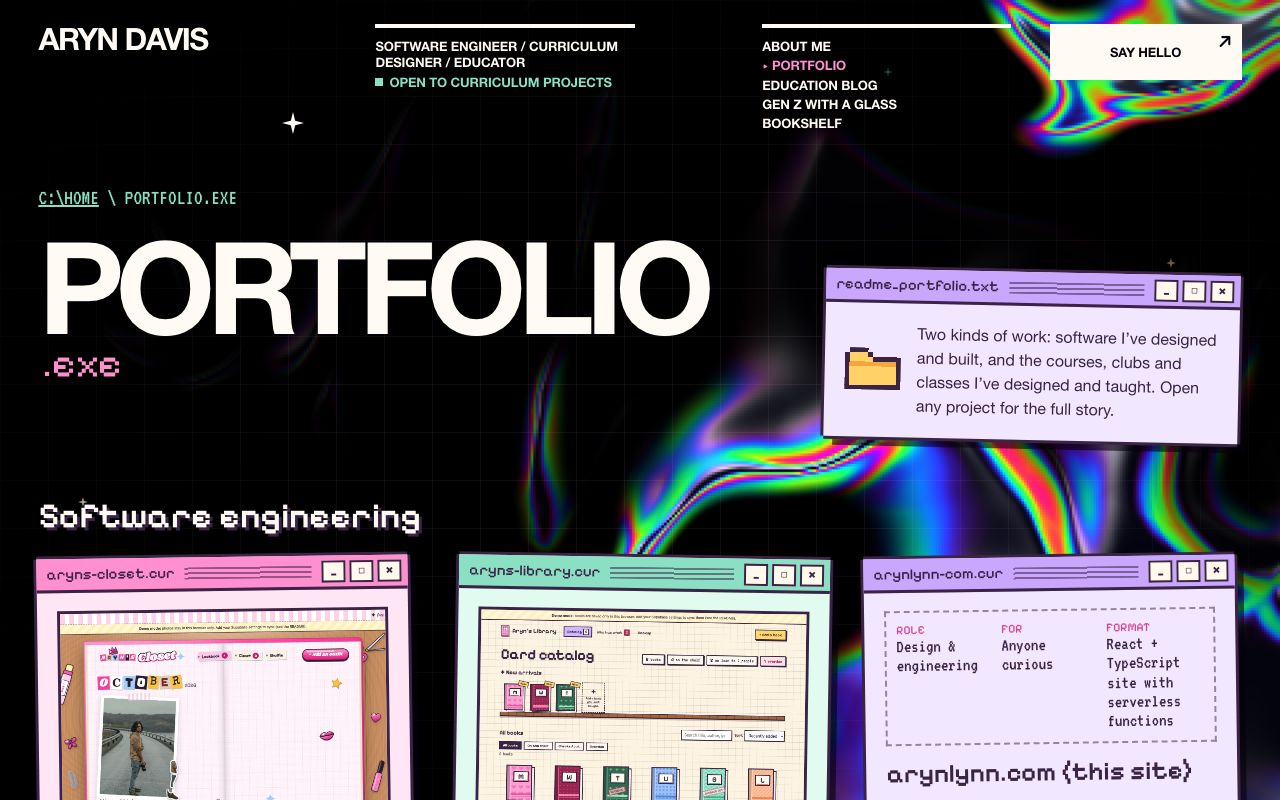
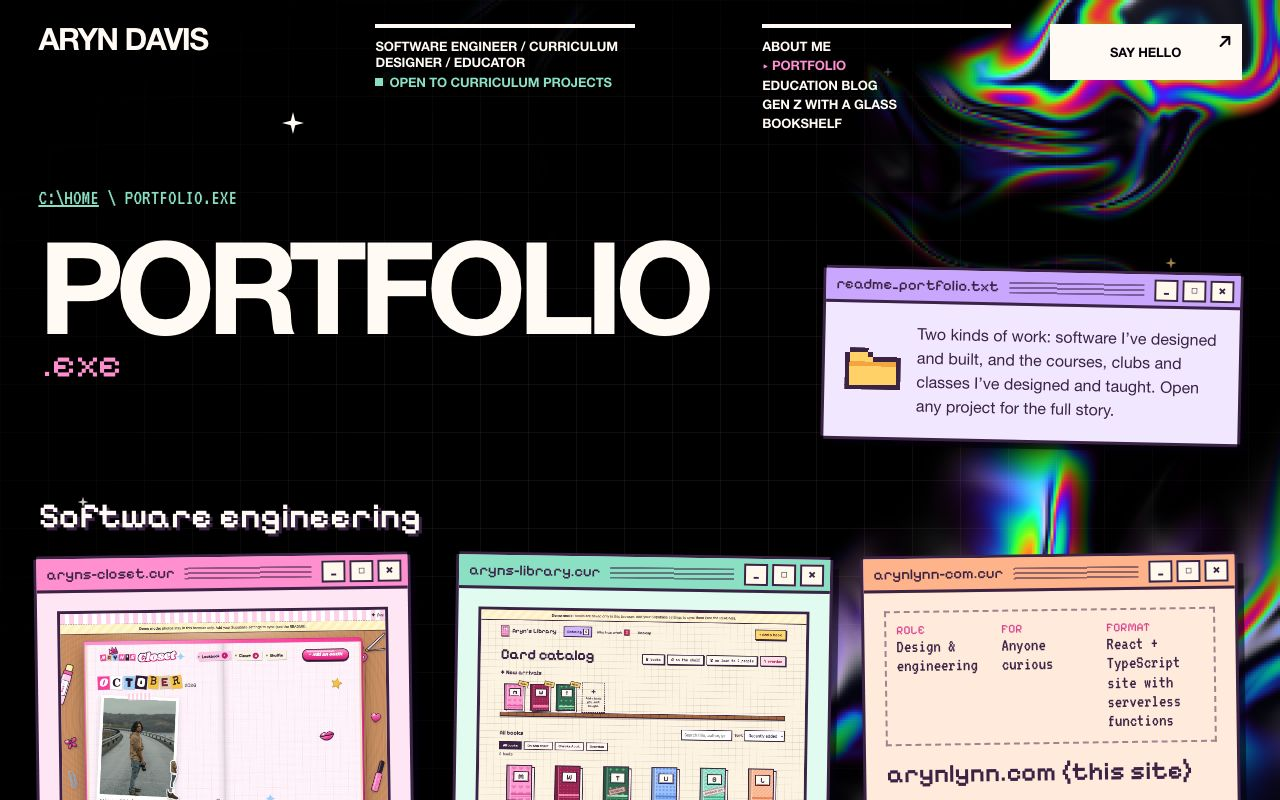
Use peach and lime across the site's notes and cards
- The note/card color rotation (education notes, portfolio cards) now
  uses all seven colors, ordered so neighbors never match.
- Portfolio sections continue the rotation instead of each starting on
  the same color.
- Peach and lime spine colors are available for the bookshelf.
- Retake the portfolio and education README screenshots.

diff --git a/src/pages/Collection.tsx b/src/pages/Collection.tsx
@@ -7,7 +7,8 @@ import { formatDate, newestFirst, type Entry } from '../content/types'
 import { href } from '../router'
 import { sections, type SectionKey } from '../site'
 
-const noteTones: Tone[] = ['yellow', 'pink', 'mint', 'lilac', 'blue']
+// Every note color, in an order where neighbors never match; seven colors means repeats are rare.
+const noteTones: Tone[] = ['yellow', 'pink', 'mint', 'peach', 'lilac', 'lime', 'blue']
 
 interface CollectionProps<T extends Entry> {
   sectionKey: SectionKey
@@ -40,11 +41,12 @@ export default function Collection<T extends Entry>({ sectionKey, entries, slug,
 
   // Inside a titled group, card titles sit one level below the group title.
   const CardHeading = groups ? 'h3' : 'h2'
-  const windowBoard = (list: T[]) => (
+  // `offset` continues the color rotation from the previous group, so sections don't start on the same color.
+  const windowBoard = (list: T[], offset = 0) => (
     <ul className="window-board">
       {list.map((entry, i) => (
         <li key={entry.slug}>
-          <PixelWindow as="article" title={`${entry.slug}.${fileExtension}`} tone={noteTones[(i + 1) % noteTones.length]} labelledBy={`card-${entry.slug}`} className="card-window">
+          <PixelWindow as="article" title={`${entry.slug}.${fileExtension}`} tone={noteTones[(i + offset + 1) % noteTones.length]} labelledBy={`card-${entry.slug}`} className="card-window">
             {cardExtra?.(entry)}
             <CardHeading className="card-title" id={`card-${entry.slug}`}>
               <a className="stretched" href={link(entry)} data-slug={entry.slug}>
@@ -117,8 +119,9 @@ export default function Collection<T extends Entry>({ sectionKey, entries, slug,
             ))}
           </ul>
         ) : groups ? (
-          groups.map((group) => {
+          groups.map((group, g) => {
             const list = sorted.filter(group.filter)
+            const offset = groups.slice(0, g).reduce((count, earlier) => count + sorted.filter(earlier.filter).length, 0)
             return (
               list.length > 0 && (
                 <section key={group.id} id={group.id} className="board-group" aria-labelledby={`${group.id}-title`}>
@@ -126,7 +129,7 @@ export default function Collection<T extends Entry>({ sectionKey, entries, slug,
                     {group.title}
                   </h2>
                   {group.intro}
-                  {windowBoard(list)}
+                  {windowBoard(list, offset)}
                 </section>
               )
             )

diff --git a/src/styles.css b/src/styles.css
@@ -771,6 +771,8 @@ button.pixel-button:active {
 .note.tone-mint { --body: #cdf7e6; }
 .note.tone-lilac { --body: #e8dbff; }
 .note.tone-blue { --body: #d9e6ff; }
+.note.tone-peach { --body: #ffe0cc; }
+.note.tone-lime { --body: #e8f7c2; }
 
 .note:nth-child(even) {
   rotate: 1.4deg;
@@ -1322,6 +1324,8 @@ a.pixel-button.substack-link:hover {
 .spine-blue { --book: var(--blue); --book-ink: var(--ink); }
 .spine-cream { --book: var(--cream); --book-ink: var(--ink); }
 .spine-wine { --book: #8c1c4a; --book-ink: var(--cream); }
+.spine-peach { --book: var(--peach); --book-ink: var(--ink); }
+.spine-lime { --book: var(--lime); --book-ink: var(--ink); }
 
 .shelf-window .window-body {
   padding: 20px clamp(12px, 3vw, 28px) 28px;

diff --git a/src/content/books.ts b/src/content/books.ts
@@ -1,7 +1,7 @@
 // status: 'reading' shows face-out on the top shelf; 'read' and 'want' show as spines.
 
 export type BookStatus = 'reading' | 'read' | 'want'
-export type SpineColor = 'pink' | 'yellow' | 'mint' | 'lilac' | 'blue' | 'wine' | 'cream'
+export type SpineColor = 'pink' | 'yellow' | 'mint' | 'lilac' | 'blue' | 'wine' | 'cream' | 'peach' | 'lime'
 
 export interface Book {
   slug: string
